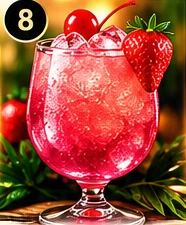
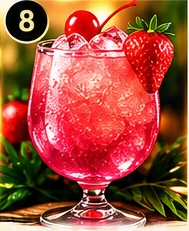
Publish Jam Roc site

diff --git a/shared.js b/shared.js
@@ -133,8 +133,14 @@ function imageUrl(value) {
     ? value
     : "";
 }
+function displayImage(item) {
+  const url = imageUrl(item.imageUrl);
+  return item.kind === "drink" && url.startsWith("assets/images/menu/")
+    ? url + "?v=20260930-full-drinks"
+    : url;
+}
 function card(item, featured = false) {
-  const image = imageUrl(item.imageUrl);
+  const image = displayImage(item);
   return `<article class="food-card ${item.kind === "drink" ? "drink-card" : ""}" data-reveal-key="${esc(item.slug)}"><div class="food-photo">${image ? `<img src="${esc(image)}" width="${item.kind === "drink" ? 190 : 600}" height="${item.kind === "drink" ? 246 : 450}" loading="lazy" decoding="async" alt="${esc(item.name)}">` : ""}</div><div class="food-info">${featured ? `<p class="item-category">${esc(data.categories.find((c) => c.slug === item.categorySlug)?.name || "FROM OUR KITCHEN")}</p>` : ""}<h3><button class="item-name" data-item="${esc(item.slug)}" aria-label="Details for ${esc(item.name)}">${esc(item.name)}</button></h3><p>${esc(item.description)}</p>${item.options?.length ? `<label class="card-preparation">Preparation<select aria-label="Preparation for ${esc(item.name)}">${item.options.map((o) => `<option>${esc(o.name)}</option>`).join("")}</select></label>` : ""}<div class="price"><span>${item.isAvailable ? money(item.price) : "Currently unavailable"}</span><button class="item-link" data-add="${esc(item.slug)}" aria-label="Add ${esc(item.name)} to cart" ${!item.isAvailable ? "disabled" : ""}>Add to cart</button></div><span class="cart-feedback" role="status"></span></div></article>`;
 }
 function renderMenu() {
@@ -214,7 +220,7 @@ function showItem(item) {
   if (!item) return;
   const d = $("#item-dialog");
   d.classList.toggle("drink-detail", item.kind === "drink");
-  d.innerHTML = `<button class="dialog-close" aria-label="Close">×</button>${imageUrl(item.imageUrl) ? `<img src="${esc(item.imageUrl)}" width="650" height="480" alt="${esc(item.name)}">` : ""}<div class="item-detail"><p class="item-category">${esc(data.categories.find((c) => c.slug === item.categorySlug)?.name)}</p><h2>${esc(item.name)}</h2><p>${esc(item.description)}</p><p><strong>${money(item.price)}</strong></p>${item.options?.length ? `<label>Preparation<select id="preparation">${item.options.map((o) => `<option>${esc(o.name)}</option>`).join("")}</select></label>` : ""}<button class="button" id="add-pick" ${!item.isAvailable ? "disabled" : ""}>${item.isAvailable ? "Add to cart" : "Currently unavailable"}</button><p class="muted">Save your favorites while you browse. Checkout takes place on Toast.</p>${item.illustrative ? '<p class="muted">Illustrative food photograph.</p>' : ""}</div>`;
+  d.innerHTML = `<button class="dialog-close" aria-label="Close">×</button>${imageUrl(item.imageUrl) ? `<img src="${esc(displayImage(item))}" width="650" height="480" alt="${esc(item.name)}">` : ""}<div class="item-detail"><p class="item-category">${esc(data.categories.find((c) => c.slug === item.categorySlug)?.name)}</p><h2>${esc(item.name)}</h2><p>${esc(item.description)}</p><p><strong>${money(item.price)}</strong></p>${item.options?.length ? `<label>Preparation<select id="preparation">${item.options.map((o) => `<option>${esc(o.name)}</option>`).join("")}</select></label>` : ""}<button class="button" id="add-pick" ${!item.isAvailable ? "disabled" : ""}>${item.isAvailable ? "Add to cart" : "Currently unavailable"}</button><p class="muted">Save your favorites while you browse. Checkout takes place on Toast.</p>${item.illustrative ? '<p class="muted">Illustrative food photograph.</p>' : ""}</div>`;
   d.querySelector("#preparation")?.addEventListener("change", (e) => {
     const o = item.options.find((o) => o.name === e.target.value);
     if (imageUrl(o?.imageUrl)) d.querySelector("img").src = o.imageUrl;

diff --git a/styles.css b/styles.css
@@ -1618,9 +1618,18 @@ dialog::backdrop {
 }
 
 /* Original cocktail poster crops retain their portrait composition. */
-.menu-grid .drink-card .food-photo { aspect-ratio: 190 / 246; background: white; }
+.menu-grid .drink-card { grid-template-columns: 190px minmax(0, 1fr); }
+.menu-grid .drink-card .food-photo { aspect-ratio: auto; height: auto; background: white; overflow: visible; }
+.menu-grid .drink-card .food-photo img { width: 100%; height: auto; object-fit: contain; }
+@media (max-width: 700px) {
+  .menu-grid .drink-card { grid-template-columns: 120px minmax(0, 1fr); }
+}
+@media (max-width: 420px) {
+  .menu-grid .drink-card { grid-template-columns: 1fr; gap: 16px; }
+  .menu-grid .drink-card .food-photo { width: 190px; }
+}
 .drink-card .food-info > p, .drink-detail .item-detail > p { white-space: pre-line; }
-.drink-detail > img { object-fit: contain; height: 300px; background: white; }
+.drink-detail > img { object-fit: contain; width: auto; max-width: 100%; height: auto; max-height: 350px; margin: 24px auto 0; background: white; }
 .builder-entry { display: flex; align-items: center; flex-wrap: wrap; gap: 20px; padding: 24px 0 30px; margin-bottom: 30px; border-top: 2px solid var(--green); border-bottom: 1px solid var(--line); }
 .builder-entry > div { flex: 1; min-width: 220px; }
 .builder-entry h2 { font-size: 38px; margin-bottom: 12px; }

diff --git a/index.html b/index.html
@@ -10,7 +10,7 @@
     />
     <title>Jamaican food, island spirit | Jam Roc Restaurant & Lounge</title>
     <link rel="icon" href="assets/brand/logo.webp" />
-    <link rel="stylesheet" href="styles.css?v=20260930-drinks" />
+    <link rel="stylesheet" href="styles.css?v=20260930-full-drinks" />
   </head>
   <body data-page="home">
     <a class="skip" href="#main">Skip to content</a>
@@ -140,6 +140,6 @@
     </dialog>
     <script src="public-config.js"></script>
     <script src="vendor/convex-client.js" defer></script>
-    <script type="module" src="shared.js?v=20260930-drinks"></script>
+    <script type="module" src="shared.js?v=20260930-full-drinks"></script>
   </body>
 </html>

diff --git a/order-status.html b/order-status.html
@@ -10,7 +10,7 @@
     />
     <title>Live pickup status | Jam Roc Restaurant & Lounge</title>
     <link rel="icon" href="assets/brand/logo.webp" />
-    <link rel="stylesheet" href="styles.css?v=20260930-drinks" />
+    <link rel="stylesheet" href="styles.css?v=20260930-full-drinks" />
   </head>
   <body data-page="status">
     <a class="skip" href="#main">Skip to content</a>
@@ -98,6 +98,6 @@
     </dialog>
     <script src="public-config.js"></script>
     <script src="vendor/convex-client.js" defer></script>
-    <script type="module" src="shared.js?v=20260930-drinks"></script>
+    <script type="module" src="shared.js?v=20260930-full-drinks"></script>
   </body>
 </html>

diff --git a/contact.html b/contact.html
@@ -10,7 +10,7 @@
     />
     <title>Visit Jam Roc | Jam Roc Restaurant & Lounge</title>
     <link rel="icon" href="assets/brand/logo.webp" />
-    <link rel="stylesheet" href="styles.css?v=20260930-drinks" />
+    <link rel="stylesheet" href="styles.css?v=20260930-full-drinks" />
   </head>
   <body data-page="contact">
     <a class="skip" href="#main">Skip to content</a>
@@ -88,6 +88,6 @@
     </dialog>
     <script src="public-config.js"></script>
     <script src="vendor/convex-client.js" defer></script>
-    <script type="module" src="shared.js?v=20260930-drinks"></script>
+    <script type="module" src="shared.js?v=20260930-full-drinks"></script>
   </body>
 </html>

diff --git a/menu.html b/menu.html
@@ -10,7 +10,7 @@
     />
     <title>Food & drinks | Jam Roc Restaurant & Lounge</title>
     <link rel="icon" href="assets/brand/logo.webp" />
-    <link rel="stylesheet" href="styles.css?v=20260930-drinks" />
+    <link rel="stylesheet" href="styles.css?v=20260930-full-drinks" />
   </head>
   <body data-page="menu">
     <a class="skip" href="#main">Skip to content</a>
@@ -120,6 +120,6 @@
     </dialog>
     <script src="public-config.js"></script>
     <script src="vendor/convex-client.js" defer></script>
-    <script type="module" src="shared.js?v=20260930-drinks"></script>
+    <script type="module" src="shared.js?v=20260930-full-drinks"></script>
   </body>
 </html>
